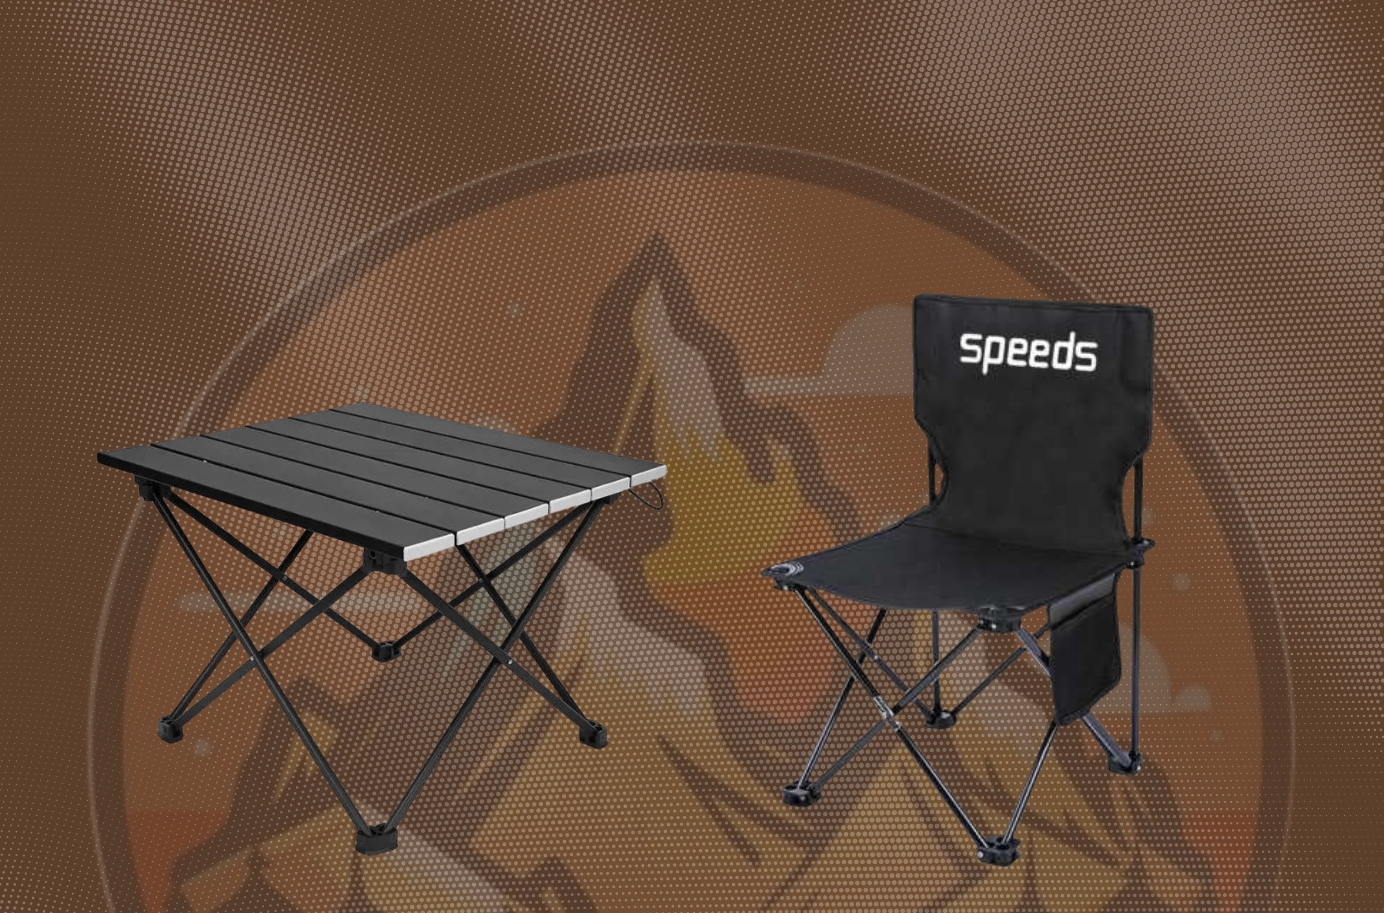
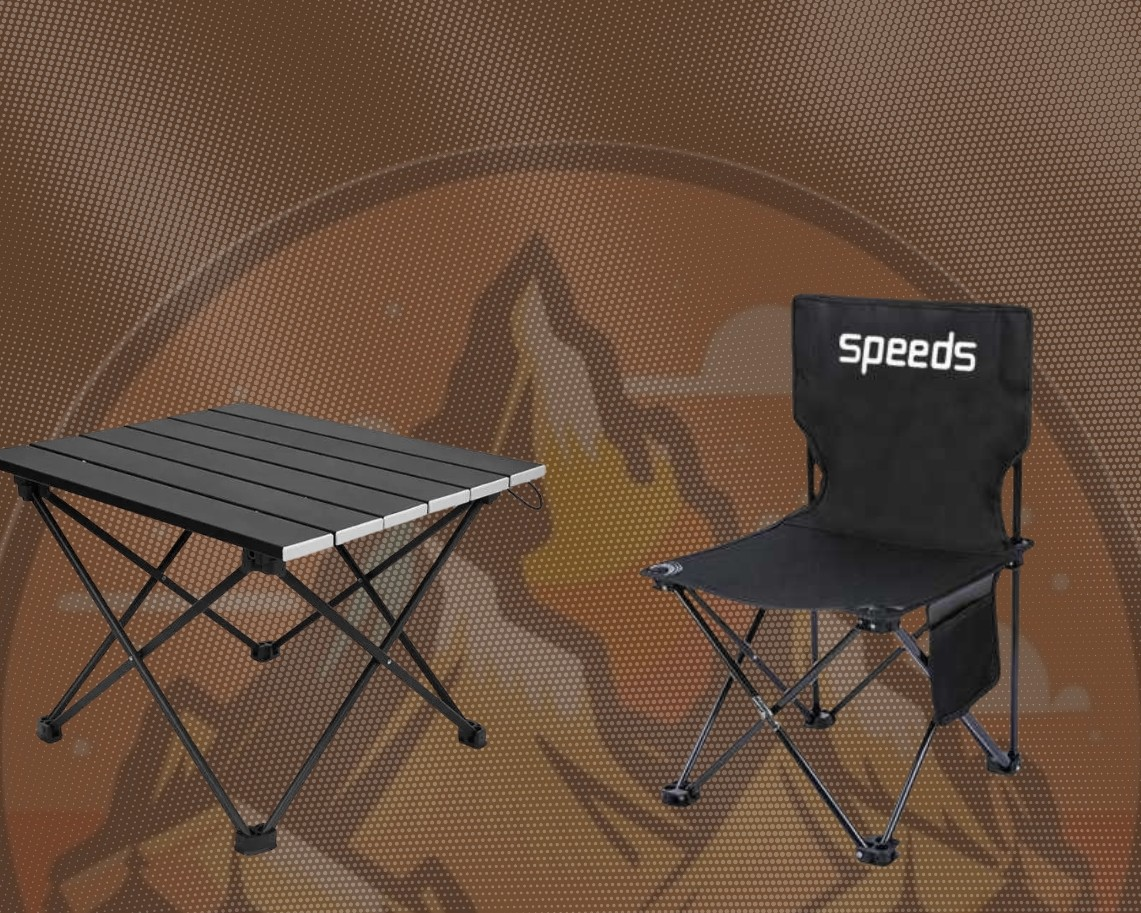
ganti hero

diff --git a/src/pages/Home.tsx b/src/pages/Home.tsx
@@ -9,7 +9,7 @@ import {
 } from "lucide-react";
 import { HomepageConfig, SystemSettings } from '../types';
 import { motion } from 'motion/react';
-import heroBg from '../assets/images/BG NEW HERO.jpg';
+import heroBg from '../assets/images/BG HERO.jpg';
 
 interface HomeProps {
   homepageConfig: HomepageConfig;
